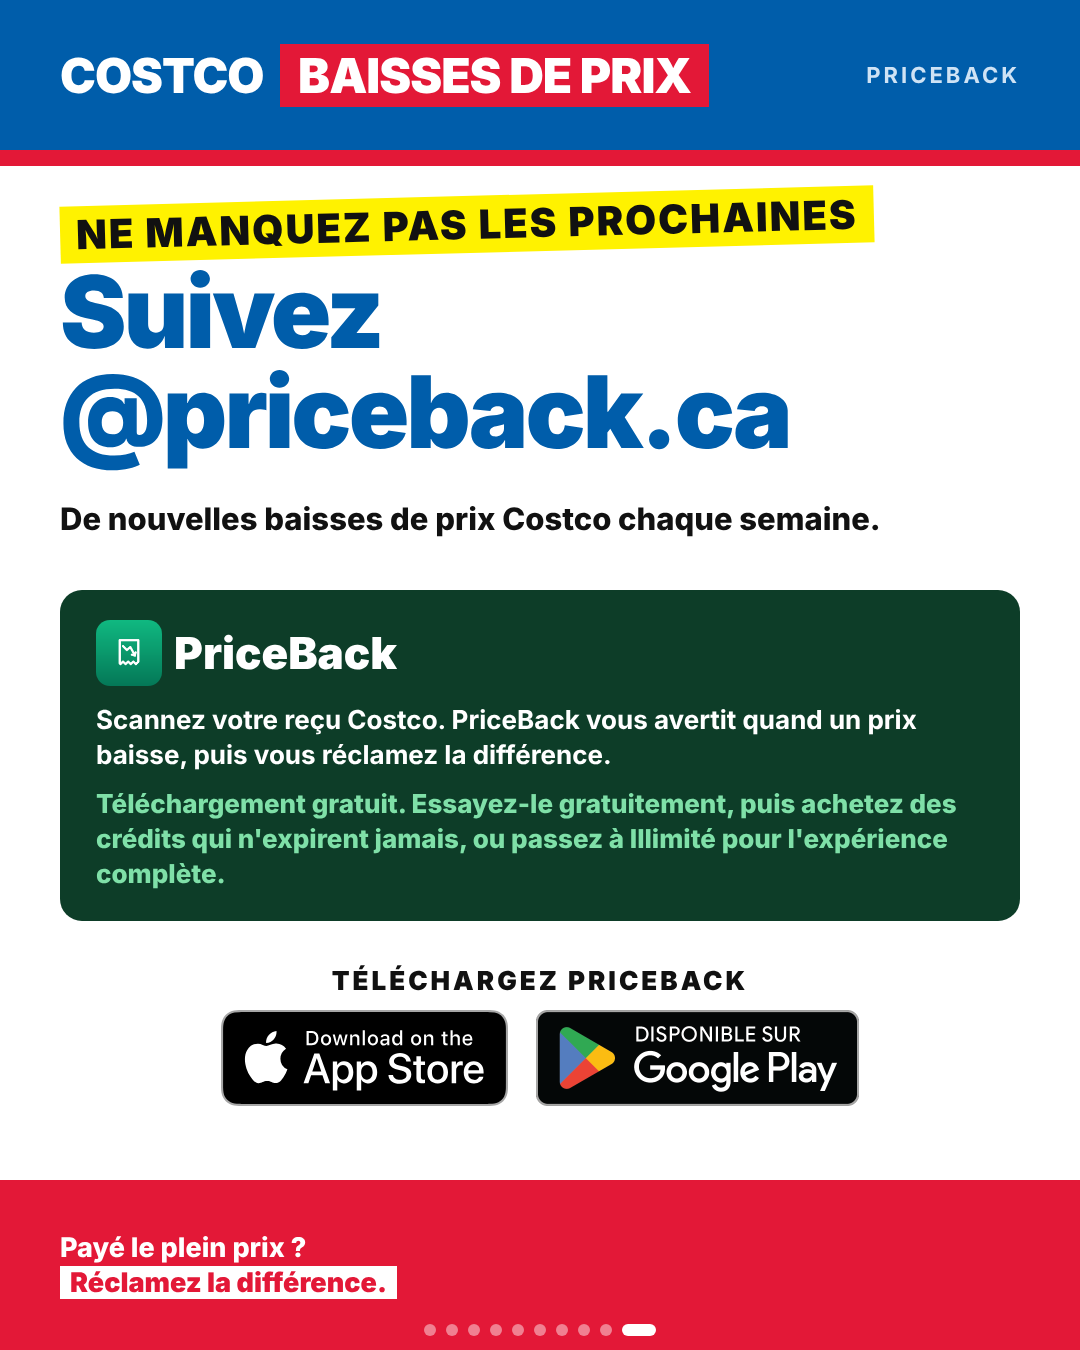
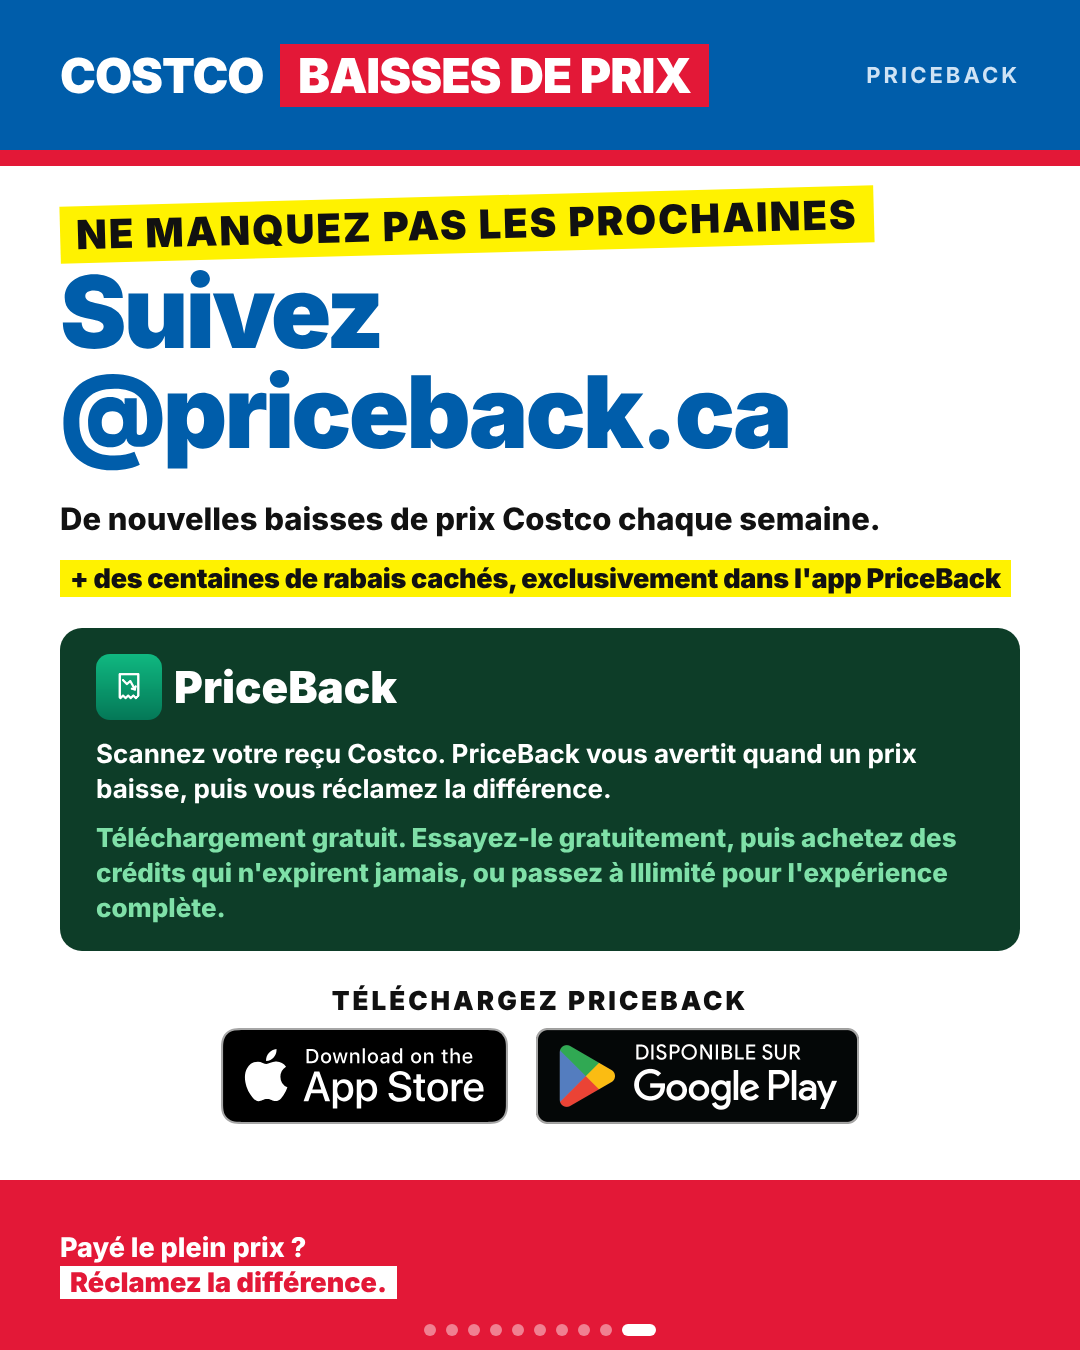
End card: hundreds more hidden savings line; saving size beats everyday rule
Claude-Session: https://claude.ai/code/session_01VjE6kbZomcwAZjPFvvTkSW

Changed region(s): [[0.0306, 0.4044, 0.9472, 0.84]]

diff --git a/sm-content/08-costco-price-drops/scenes/render.js b/sm-content/08-costco-price-drops/scenes/render.js
@@ -68,6 +68,7 @@ const L = {
     endKick: "DON'T MISS THE NEXT ONE",
     endHead: "Follow\n@priceback.ca",
     endSub: "New Costco price drops, every week.",
+    endMore: "+ hundreds more hidden savings, only in the PriceBack app",
     endHow: "Scan your Costco receipt. PriceBack alerts you when a price drops, then you claim the difference.",
     endPlans: "Free to download. Try it free, then buy credits that never expire, or go Unlimited for the full experience.",
     endCta: "DOWNLOAD PRICEBACK",
@@ -105,6 +106,7 @@ const L = {
     endKick: "NE MANQUEZ PAS LES PROCHAINES",
     endHead: "Suivez\n@priceback.ca",
     endSub: "De nouvelles baisses de prix Costco chaque semaine.",
+    endMore: "+ des centaines de rabais cachés, exclusivement dans l'app PriceBack",
     endHow: "Scannez votre reçu Costco. PriceBack vous avertit quand un prix baisse, puis vous réclamez la différence.",
     endPlans: "Téléchargement gratuit. Essayez-le gratuitement, puis achetez des crédits qui n'expirent jamais, ou passez à Illimité pour l'expérience complète.",
     endCta: "TÉLÉCHARGEZ PRICEBACK",
@@ -323,6 +325,7 @@ function endSlide(lang, f, badges) {
     <div class="kick">${esc(t.endKick)}</div>
     <div class="ehead">${esc(t.endHead).replace("\n", "<br>")}</div>
     <div class="esub">${esc(t.endSub)}</div>
+    <div class="emore"><span>${esc(t.endMore)}</span></div>
     <div class="ecard"><div class="pb"><img src="${MARK}">PriceBack</div>
       <p>${esc(t.endHow)}</p><p class="pl">${esc(t.endPlans)}</p></div>
     <div class="ecta">${esc(t.endCta)}</div>
@@ -596,14 +599,17 @@ body{width:1080px;height:1350px;font-family:"Helvetica Neue",Arial,sans-serif}
 .fr .ehead{font-size:100px}
 .fr .esub{font-size:31px}
 .esub{position:absolute;left:60px;right:60px;top:500px;font-size:38px;font-weight:800;color:#111}
-.ecard{position:absolute;left:60px;right:60px;top:590px;background:#0d3d28;border-radius:22px;padding:30px 36px;color:#fff}
+.emore{position:absolute;left:60px;right:60px;top:562px;font-size:31px;white-space:nowrap;letter-spacing:-.3px;font-weight:900;color:#111;line-height:1.25}
+.emore span{background:var(--yel);padding:2px 10px;box-decoration-break:clone;-webkit-box-decoration-break:clone}
+.fr .emore{font-size:27px;white-space:nowrap;letter-spacing:-.3px}
+.ecard{position:absolute;left:60px;right:60px;top:628px;background:#0d3d28;border-radius:22px;padding:26px 36px;color:#fff}
 .ecard .pb{background:transparent;color:#fff;padding:0;font-size:44px;margin-bottom:16px}
 .ecard .pb img{width:66px;height:66px;border-radius:14px}
 .ecard p{font-size:29px;line-height:1.35;font-weight:700}
 .ecard p.pl{margin-top:14px;color:#7fe0a8;font-weight:800}
 .fr .ecard p{font-size:26px}
-.ecta{position:absolute;left:60px;right:60px;top:965px;text-align:center;font-weight:900;font-size:26px;letter-spacing:3px;color:#111}
-.ebadges{position:absolute;left:60px;right:60px;top:1010px;display:flex;justify-content:center;gap:28px}
+.ecta{position:absolute;left:60px;right:60px;top:985px;text-align:center;font-weight:900;font-size:26px;letter-spacing:3px;color:#111}
+.ebadges{position:absolute;left:60px;right:60px;top:1028px;display:flex;justify-content:center;gap:28px}
 .ebadges img{height:96px;width:auto}
 .end .claim{justify-content:flex-start}
 .kick{position:absolute;left:60px;top:196px;background:var(--yel);color:#111;font-weight:900;font-size:40px;letter-spacing:2px;padding:4px 16px;transform:rotate(-1.5deg)}

diff --git a/RULES-README.md b/RULES-README.md
@@ -35,6 +35,12 @@ Deal posts are real Costco price drops with product photos. They matter more tha
     Loosen to other grocery items. Still not enough? Take smaller savings. **Prefer any item over $2 off to a $2
     item** (Monica, 2026-11-04: BUILT Puff −$6 replaced Villaggio bread −$2); go down to $2 only when nothing
     bigger with a clean photo is left in the category and end date.
+  - **Saving size beats "everyday staple"** (Monica, 2026-11-04, after the bread was picked over BUILT Puff −$6):
+    "daily and common" only breaks ties between similar savings. Never put a smaller saving in a carousel while a
+    bigger one in the same category and end date, with a clean photo and not yet posted, is left out.
+  - **End card** (Monica, 2026-11-04): unchanged except one yellow line under "New Costco price drops, every
+    week.": "+ hundreds more hidden savings, only in the PriceBack app" (FR "+ des centaines de rabais cachés,
+    exclusivement dans l'app PriceBack").
   - **Business Centre and warehouse savings are never in the same carousel** (Monica, 2026-11-04): separate
     carousels, and a Business Centre cover says "Only in Costco Business Centres" (FR "Seulement dans les
     Centres d'entreprises Costco"); `"businessCentre": true` in the week file. **Never an item already posted** in an earlier carousel:

diff --git a/sm-content/08-costco-price-drops/STYLE.md b/sm-content/08-costco-price-drops/STYLE.md
@@ -91,7 +91,8 @@ offers per carousel, EN + FR, province strip on every item, the claim cover, the
 - Business Centre carousels are separate: `"businessCentre": true` adds the yellow "Only in Costco Business
   Centres" ribbon on the cover.
 - Item choice: everyday staples with the highest savings first, then other groceries, then smaller savings;
-  anything over $2 off beats a $2 item. Query:
+  anything over $2 off beats a $2 item. A bigger saving always wins over "everyday"; everyday only breaks ties.
+- End card: yellow line "+ hundreds more hidden savings, only in the PriceBack app" under the subline (`endMore`). Query:
   `valid_from` ≥ the week's Monday and `created_at` ≥ that Monday.
 - Reels come only after Monica validates the slides. Every remark Monica makes is added as a rule here and in
   `RULES-README.md` §1.
